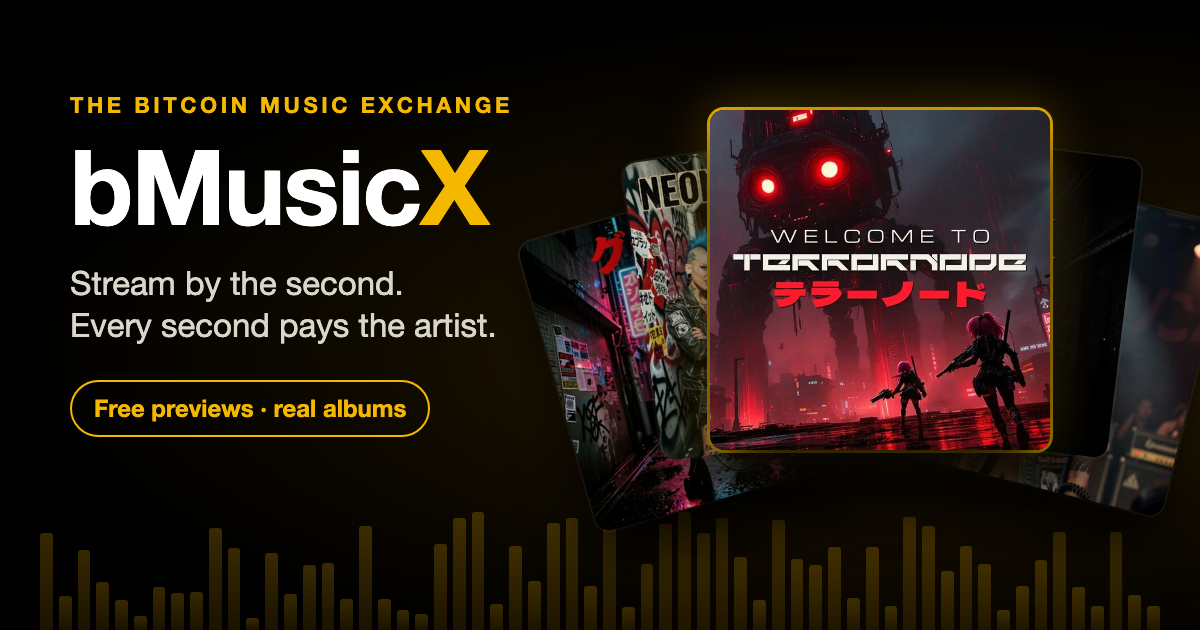
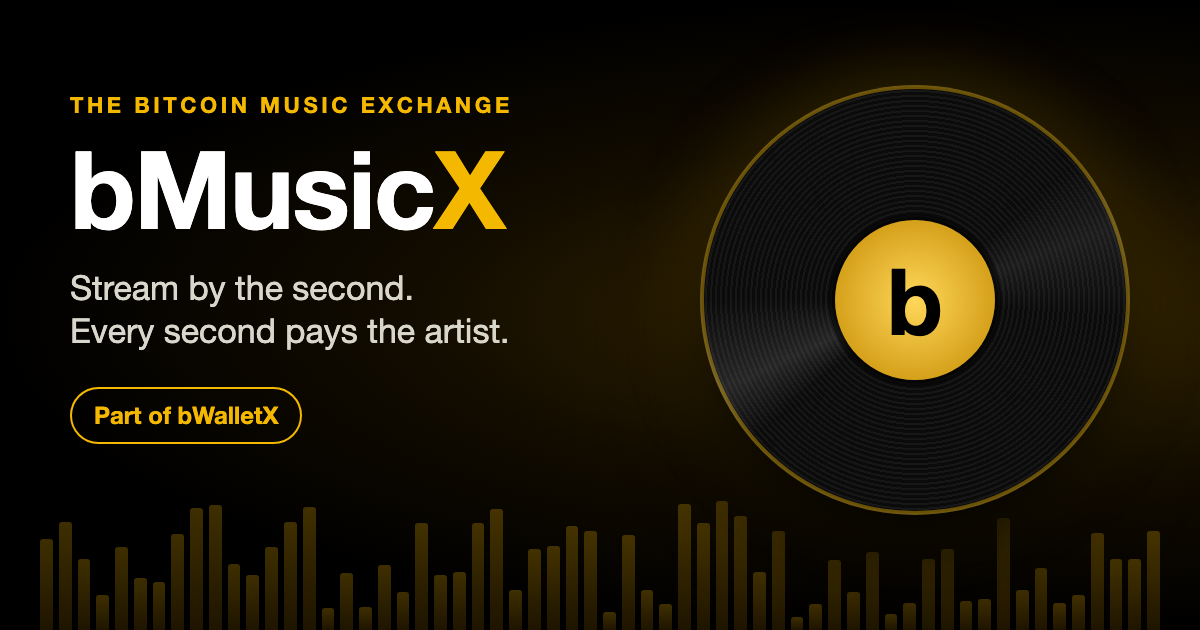
Home share card: brand only (gold b record), no album art or titles; alt text to match

diff --git a/app/layout.tsx b/app/layout.tsx
@@ -16,7 +16,7 @@ export const metadata: Metadata = {
   applicationName: 'bMusicX',
   authors: [{ name: 'The Bitcoin Corporation Ltd' }],
   publisher: 'The Bitcoin Corporation Ltd',
-  openGraph: { title: 'Your Music on bMusicX', description, url: 'https://bmusicx.com', siteName: 'bMusicX', type: 'website', locale: 'en_GB', images: [{ url: '/og/bmusicx-og.png', width: 1200, height: 630, alt: 'bMusicX: a fan of album covers led by WELCOME TO TERRORNODE. Free previews of real albums. Part of bWalletX.' }] },
+  openGraph: { title: 'Your Music on bMusicX', description, url: 'https://bmusicx.com', siteName: 'bMusicX', type: 'website', locale: 'en_GB', images: [{ url: '/og/bmusicx-og.png', width: 1200, height: 630, alt: 'bMusicX, the Bitcoin Music Exchange: a gold b record. Stream by the second; every second pays the artist. Part of bWalletX.' }] },
   twitter: { card: 'summary_large_image', title: 'Your Music on bMusicX', description, images: ['/og/bmusicx-og.png'] },
   manifest: '/manifest.json',
   icons: {
